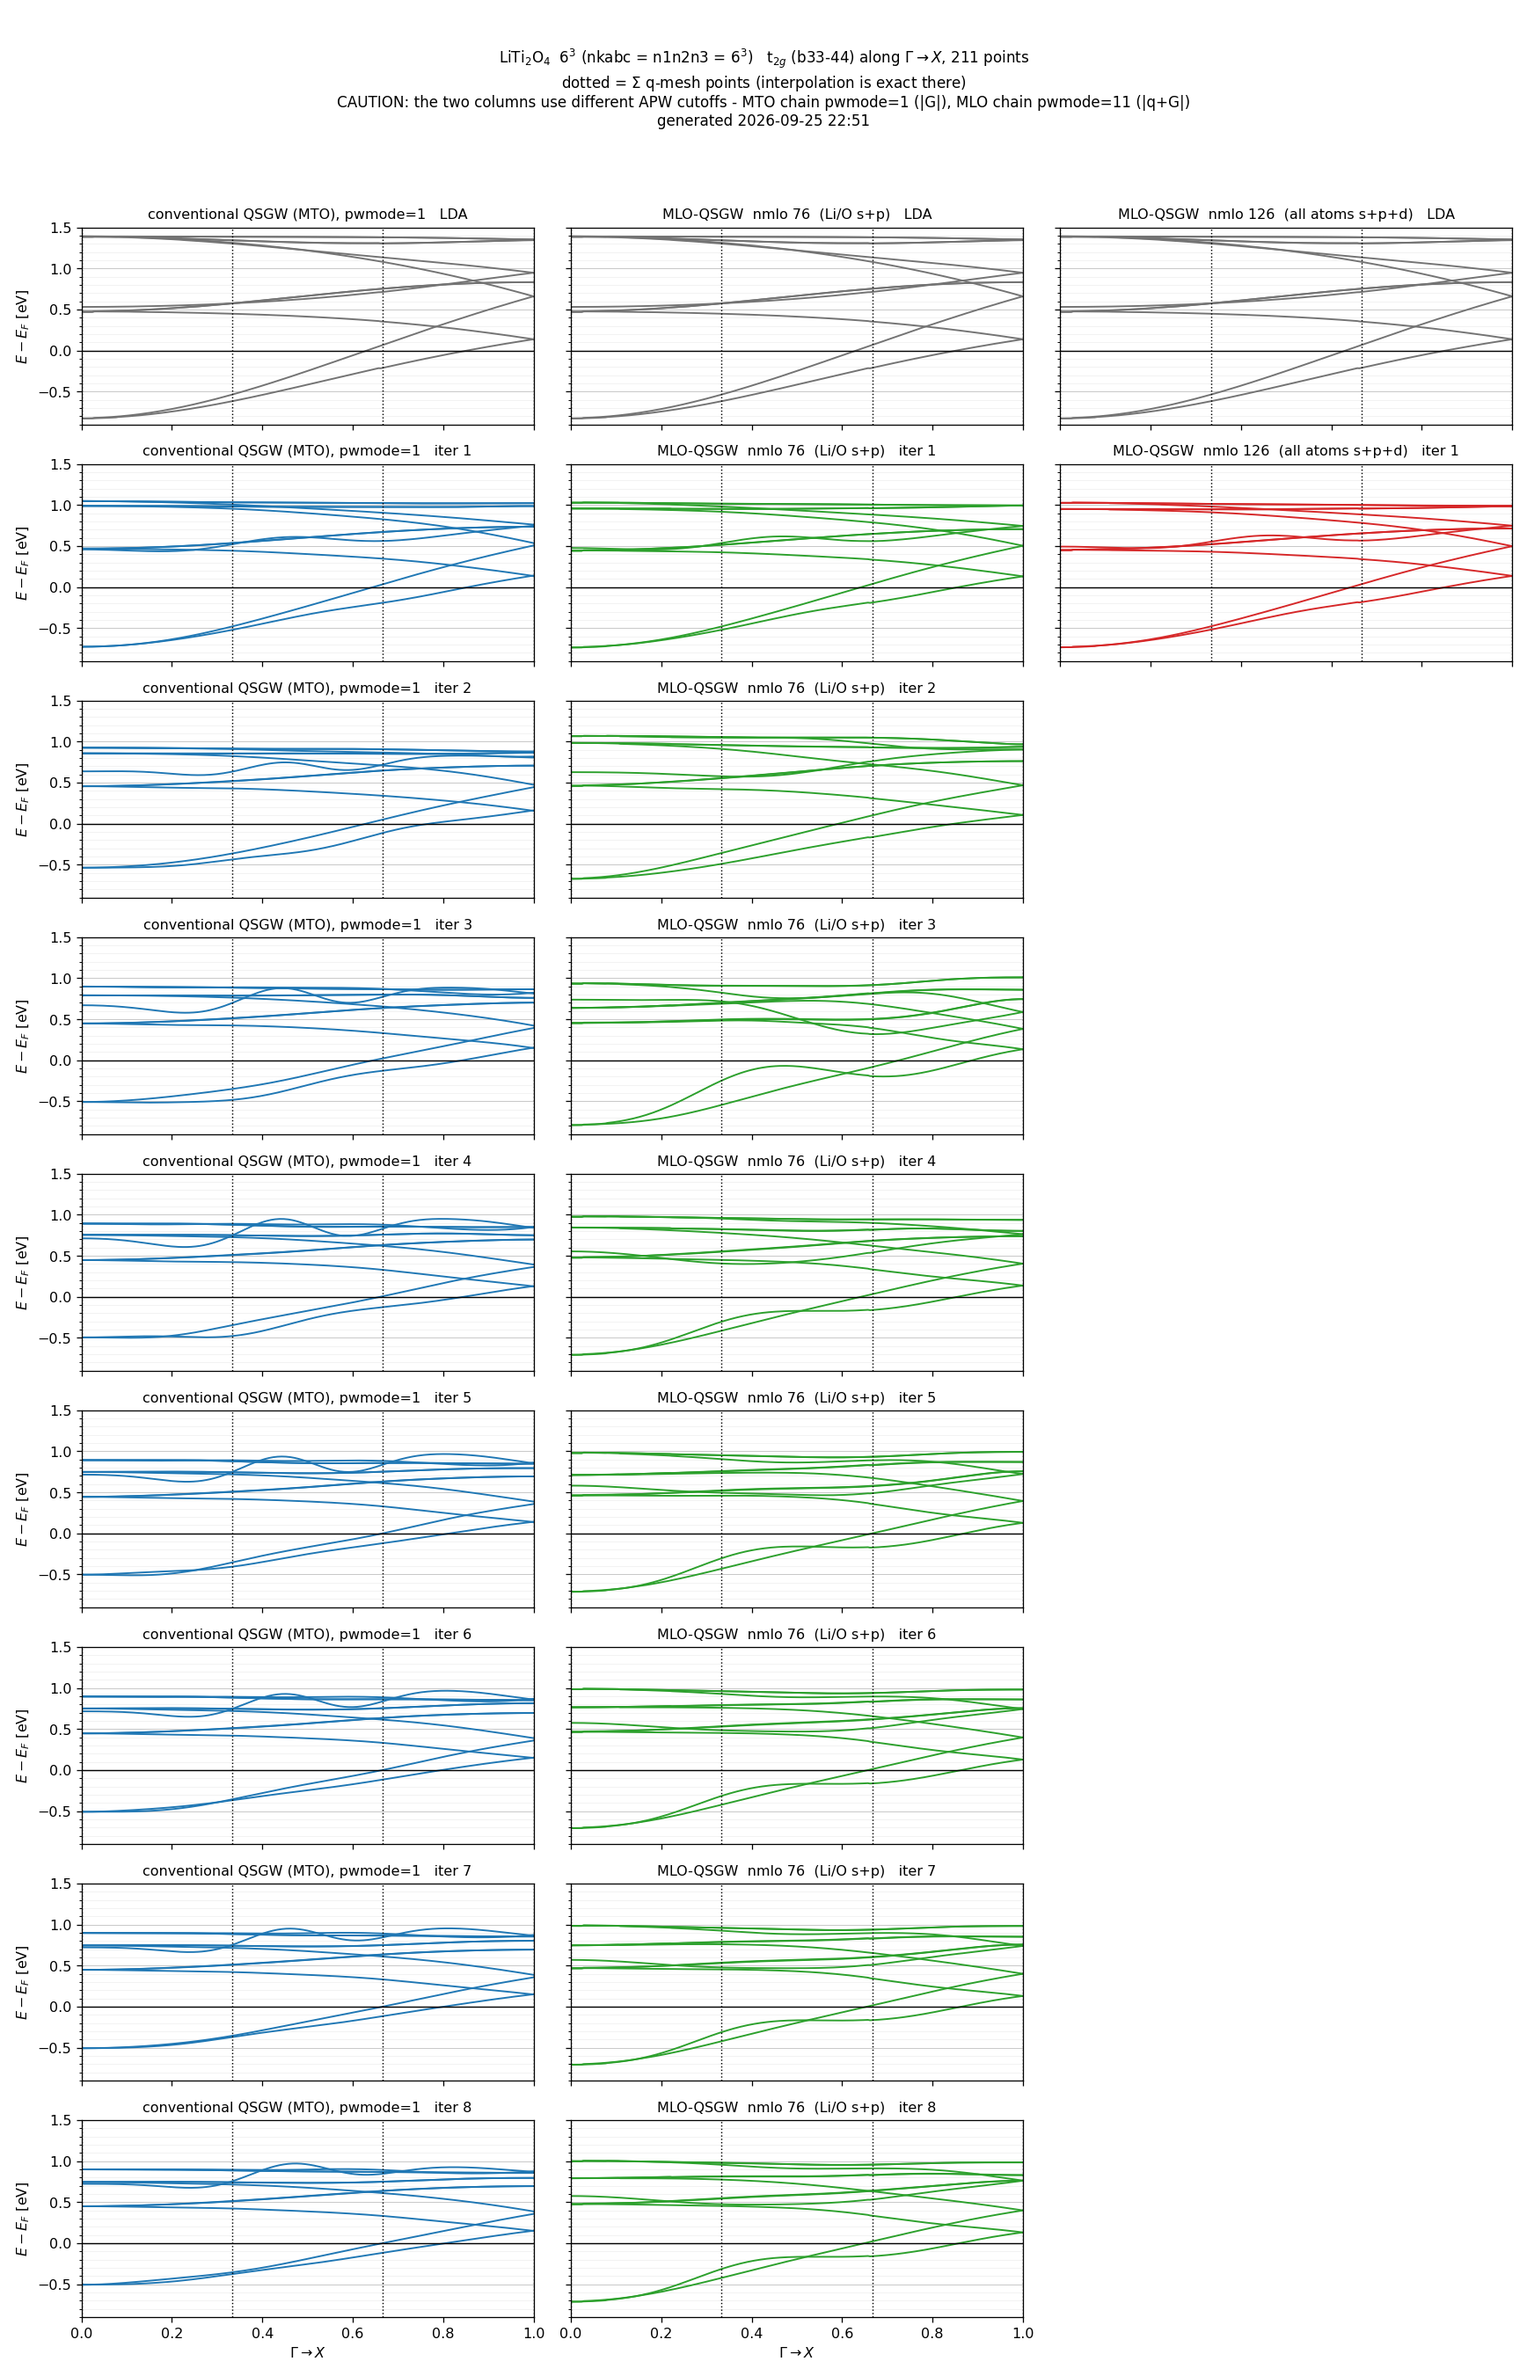
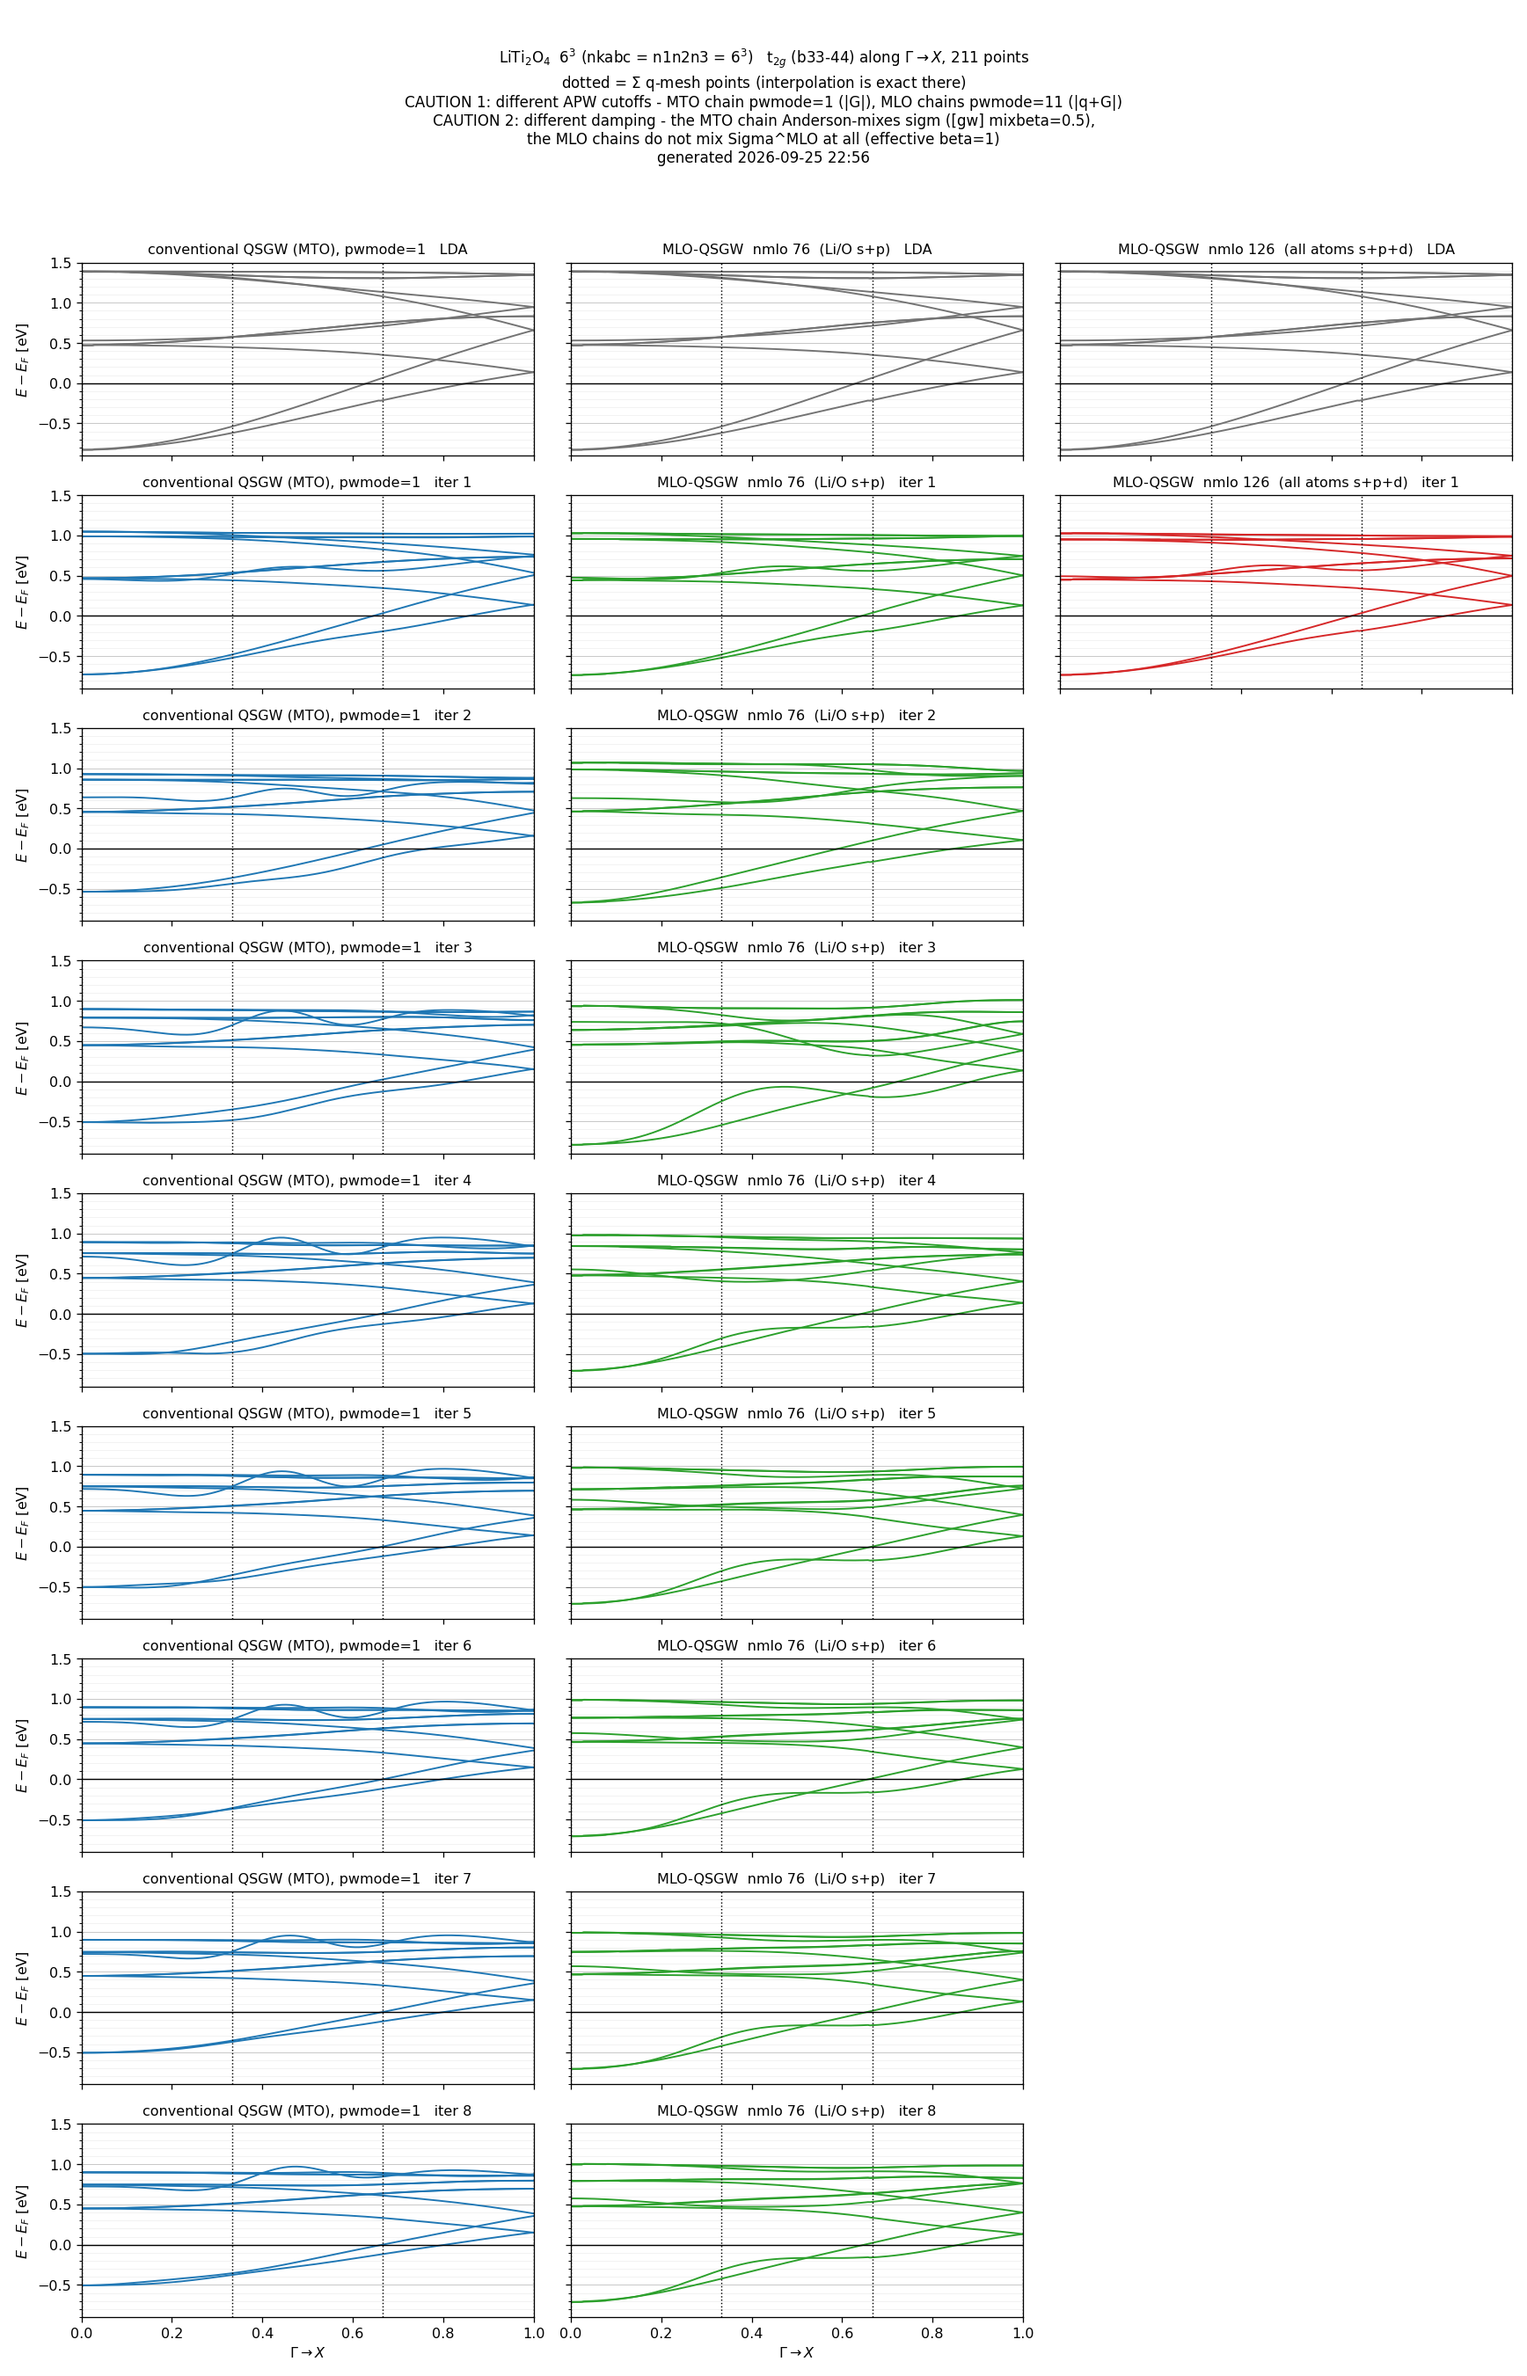
mlo_rows: say on the figure that the columns are damped differently
The MTO chain Anderson-mixes sigm at mixbeta=0.5; the MLO chains do not mix
Sigma^MLO at all, because lmf reads SigRsMLO on that route and never touches sigm.
That is deliberate -- the 21:35 decision -- but nothing on the band figure said so,
and the early iterations of the two columns are damped against undamped.  The
caption now carries it next to the pwmode caution, and the 22:53 log entry states
the premises of the comparison as a table.  All three copies regenerated.

Changed region(s): [[0.0, 0.0311, 0.9954, 0.9637]]

diff --git a/Samples/kBT/LiTi2O4/mlo_rows.py b/Samples/kBT/LiTi2O4/mlo_rows.py
@@ -55,8 +55,9 @@ for a in AX[-1]: a.set_xlabel('$\\Gamma \\to X$')
 stamp = datetime.datetime.now().strftime('%Y-%m-%d %H:%M')
 fig.suptitle('LiTi$_2$O$_4$  6$^3$ (nkabc = n1n2n3 = 6$^3$)   t$_{2g}$ (b33-44) along $\\Gamma\\to X$, 211 points\n'
              'dotted = $\\Sigma$ q-mesh points (interpolation is exact there)\n'
-             'CAUTION: the columns use different APW cutoffs - MTO chain pwmode=1 (|G|), '
-             'MLO chains pwmode=11 (|q+G|)\n'
+             'CAUTION 1: different APW cutoffs - MTO chain pwmode=1 (|G|), MLO chains pwmode=11 (|q+G|)\n'
+             'CAUTION 2: different damping - the MTO chain Anderson-mixes sigm ([gw] mixbeta=0.5),\n'
+             'the MLO chains do not mix Sigma^MLO at all (effective beta=1)\n'
              f'generated {stamp}', fontsize=10.5)
 plt.tight_layout(rect=[0, 0, 1, 1 - 0.95/(2.5*n + 1.0)])
 plt.savefig(OUT, dpi=115)

diff --git a/Samples/kBT/kBT_research.md b/Samples/kBT/kBT_research.md
@@ -36,6 +36,18 @@ v7 の iter 1 が 22:48 に出た（`secs=1030`、`cmlo_init: nmlo nbandmx nband
 
 `Samples/kBT/LiTi2O4/mlo_conv.png`（生成: `LiTi2O4/mlo_conv.py`）
 
+**比較の前提（図のキャプションにも入れた）**
+
+| | 従来 MTO | MLO 76 / MLO 126 |
+|---|---|---|
+| APW 打ち切り | `pwmode=1`（$\vert G\vert$）| `pwmode=11`（$\vert q+G\vert$）|
+| $\Sigma$ の減衰 | `sigm` を Anderson 混合（`[gw] mixbeta = 0.5`）| **$\Sigma^{\rm MLO}$ は無混合**（実効 $\beta=1$）|
+| 描画 | 両方とも `mloON=0`、従来 `sigm` 内挿 | 同左 |
+
+MLO 経路で `lmf` が読むのは `SigRsMLO` であって `sigm` ではないので、混合が効くのは従来列だけ。
+これは §21:35 の判断（混合は入れない）による意図的な差で、**バグではない**。
+ただし序盤の反復を比べるときは「減衰あり vs 減衰なし」を見ていることを忘れないこと。
+
 **形状の読み — 荒れが $E_F$ をまたいで反対側へ移った**
 
 | | 上側バンド（$E\simeq0.8$–1.0 eV）| 最下バンド（占有、$E\simeq-0.7\to0$）|
